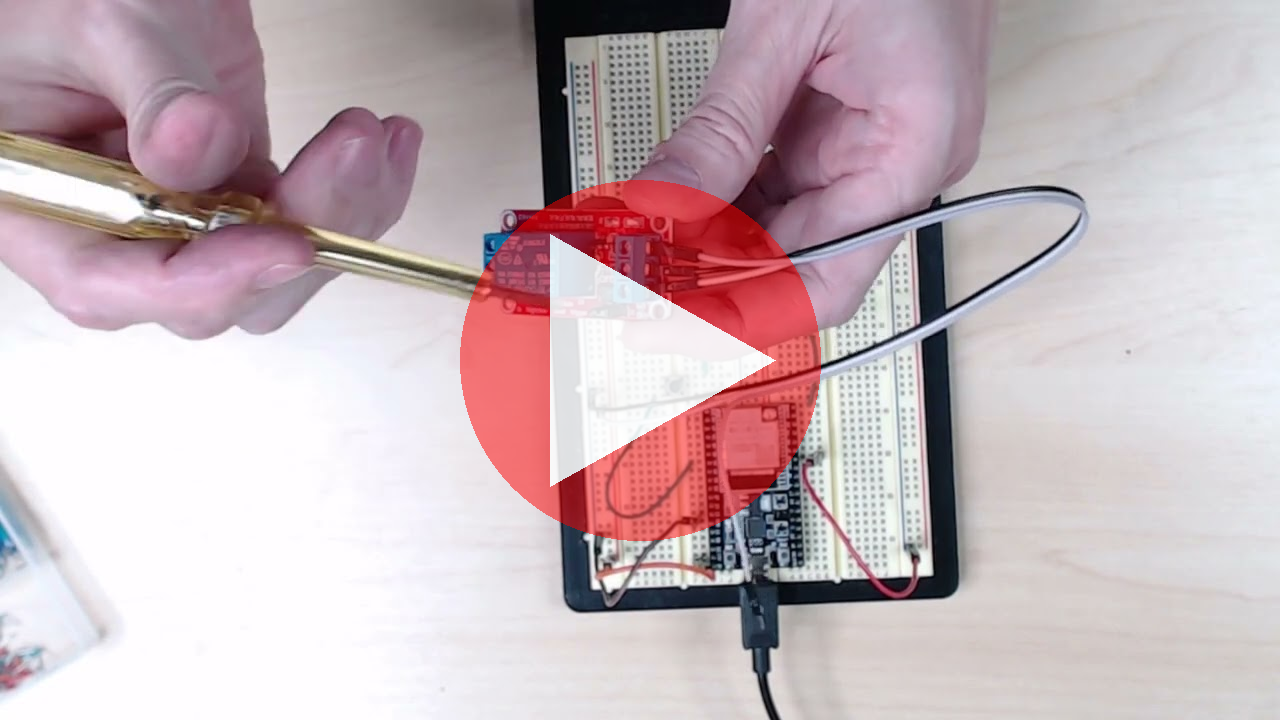
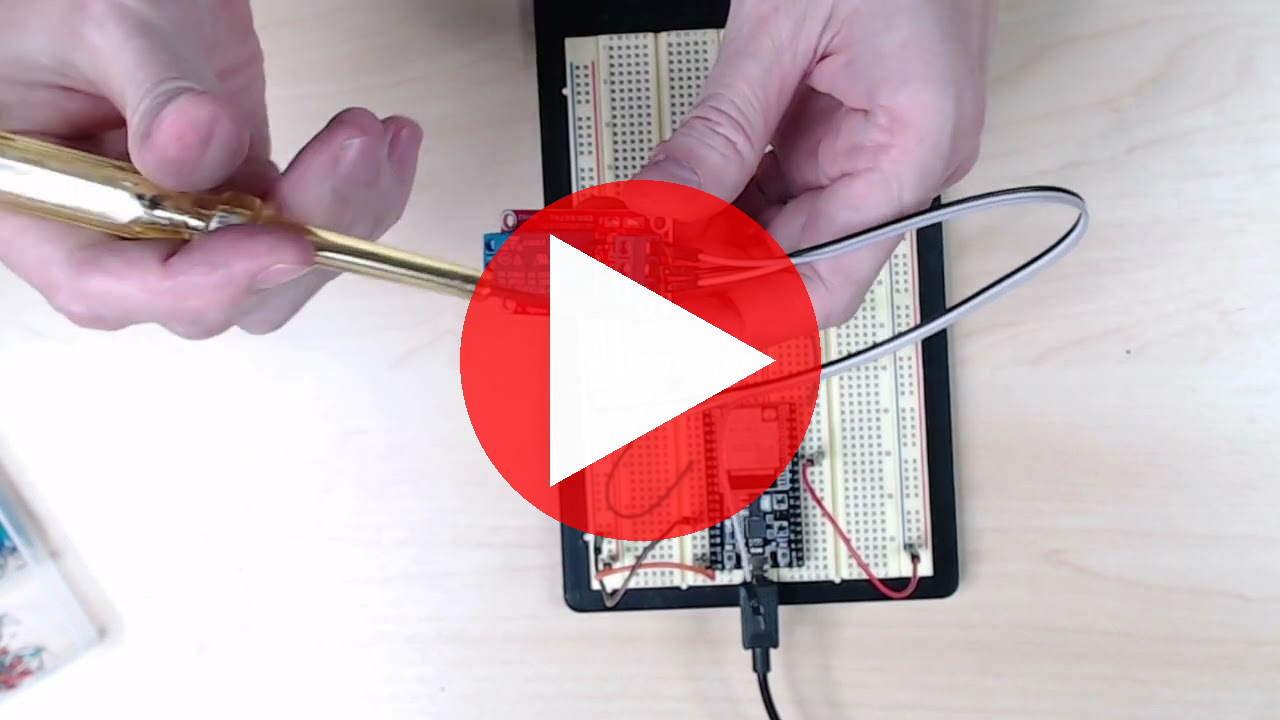
localize youtube thumb + overlay

Changed region(s): [[0.3438, 0.2444, 0.6562, 0.7639], [0.5, 0.5194, 0.5312, 0.55]]

diff --git a/4 Lab Sensor.md b/4 Lab Sensor.md
@@ -1,4 +1,4 @@
-
+
 # Lab 4: การเชื่อมต่อเซ็นเซอร์
 
 - [Lab 4: การเชื่อมต่อเซ็นเซอร์](#lab-4-การเชื่อมต่อเซ็นเซอร์)
@@ -142,7 +142,7 @@ void loop() {
 
 **วิดีโอประกอบ**  
 
-[![Watch on YouTube](https://img.youtube.com/vi/oHzir-ILy1E/maxresdefault.jpg)](https://www.youtube.com/watch?v=oHzir-ILy1E)
+[![Watch on YouTube](images/youtube-oHzir-ILy1E.png)](https://www.youtube.com/watch?v=oHzir-ILy1E)
 
 > YouTube Video - Click to play
 
